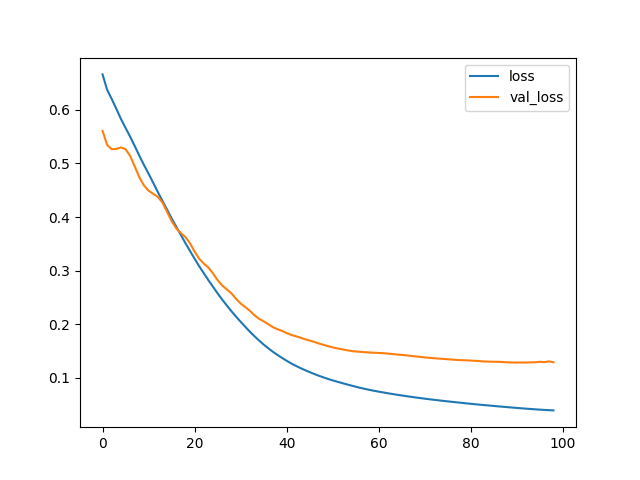
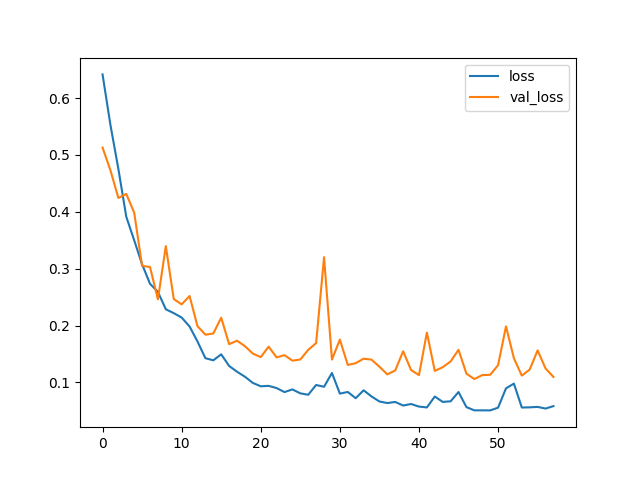
new

diff --git a/deep/2.py b/deep/2.py
@@ -28,6 +28,7 @@ y_train = df_train['Class']
 y_valid = df_valid['Class']
 
 model = keras.Sequential([
+    #layers.BatchNormalization(input_shape=[33]),
     layers.Dense(256, activation='relu', input_shape=[33]),
     layers.Dense(256, activation='relu'),    
     layers.Dense(1, activation='sigmoid'),
@@ -48,7 +49,7 @@ early_stopping = callbacks.EarlyStopping(
 history = model.fit(
     X_train, y_train,
     validation_data=(X_valid, y_valid),
-    batch_size=512,
+    batch_size=28,
     epochs=1000,
     callbacks=[early_stopping],
    # verbose=0, # hide the output because we have so many epochs
